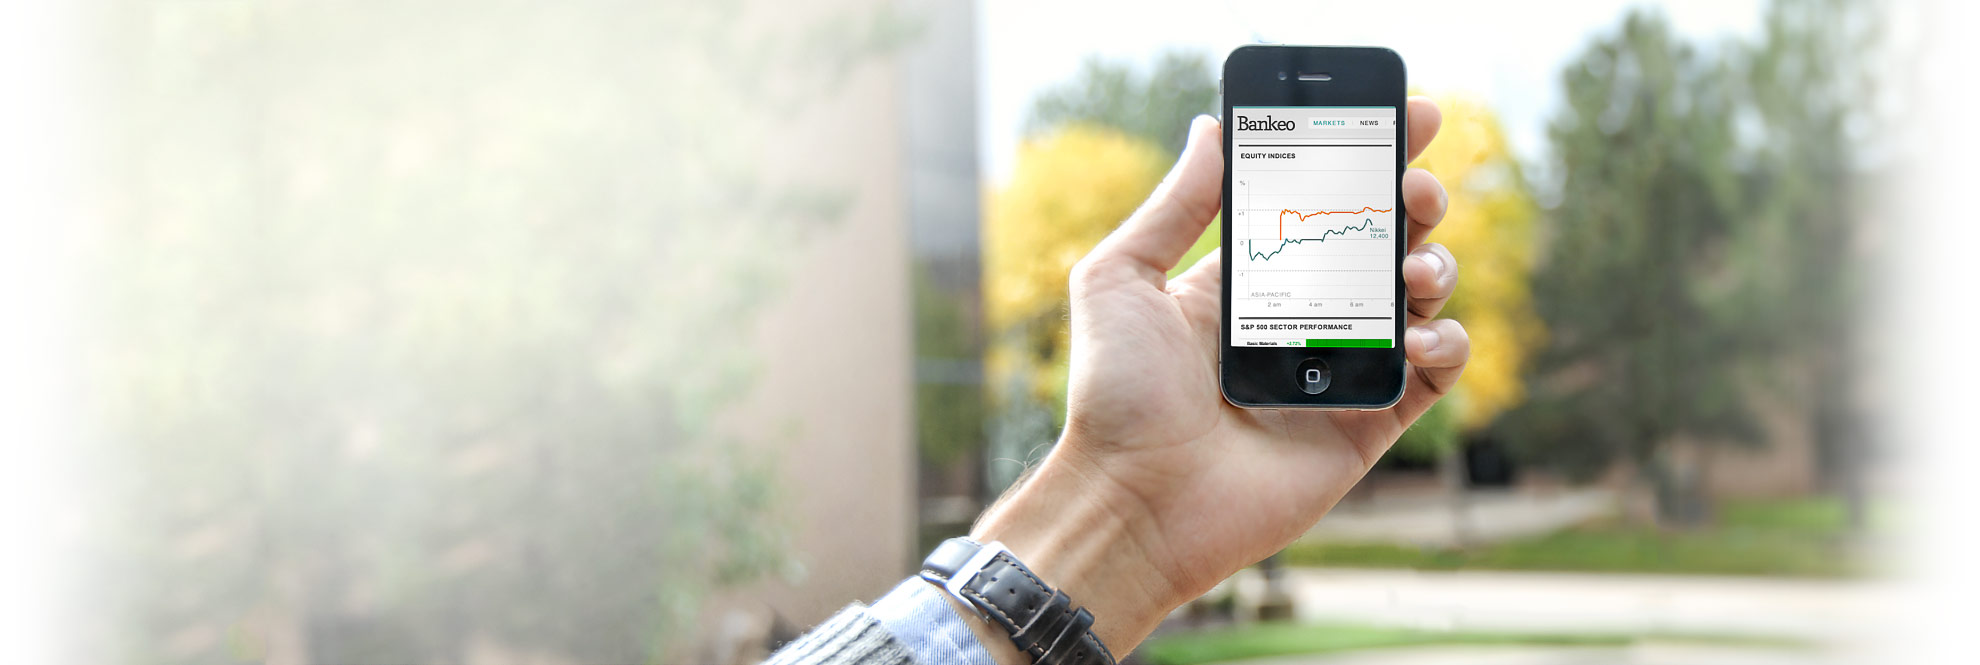
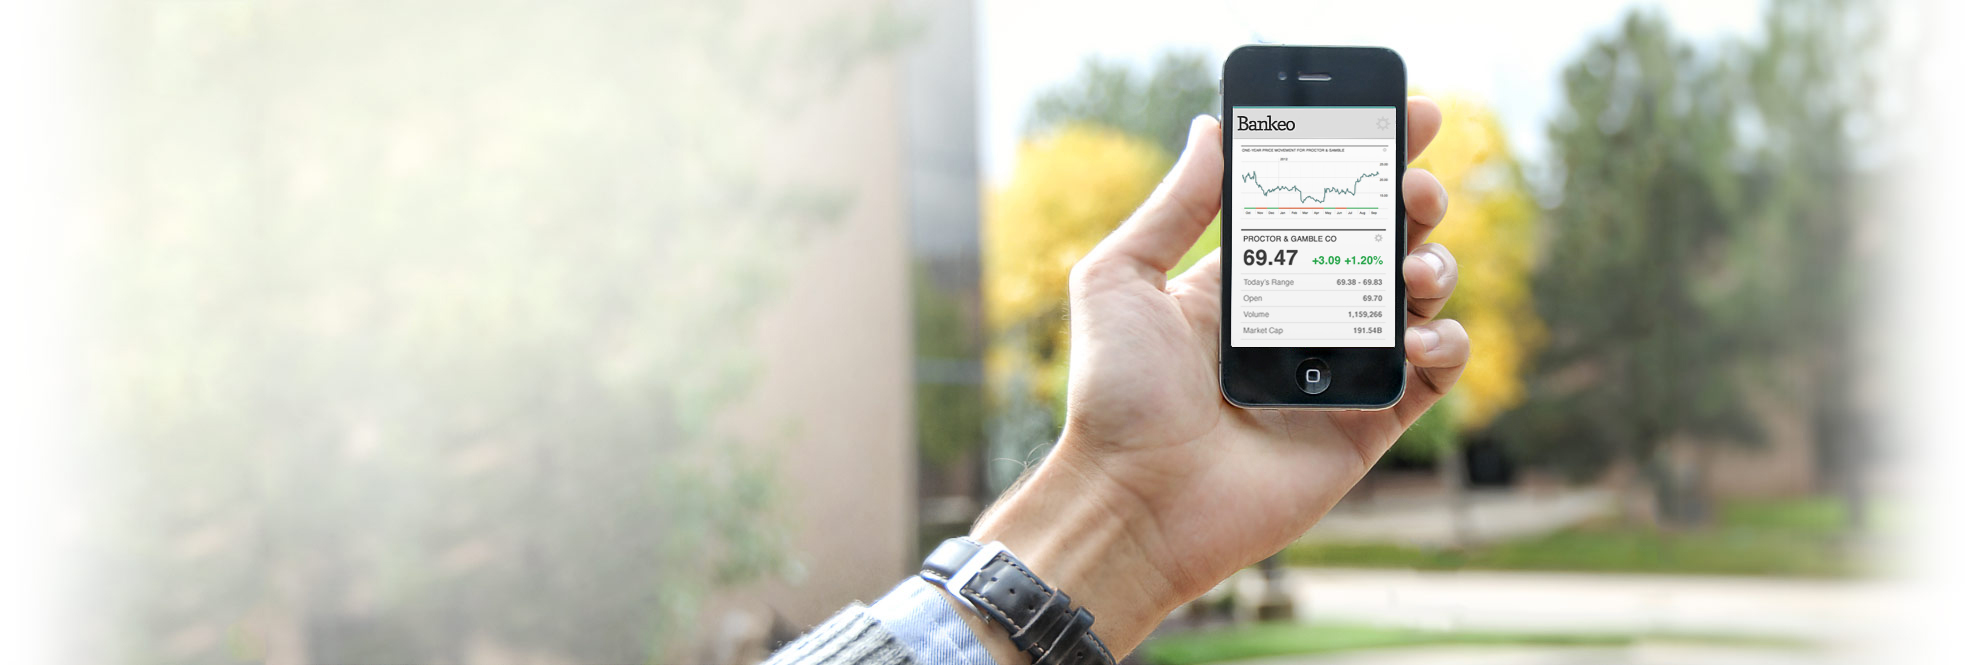
Changed iPhone pic. Adjusted some styles for the developer email form.

Changed region(s): [[0.6162, 0.2707, 0.7086, 0.5414], [0.6162, 0.1805, 0.7086, 0.2707]]

diff --git a/docs/css/F2.Docs.css b/docs/css/F2.Docs.css
@@ -185,7 +185,8 @@ a:hover{color:#005580;text-decoration:underline;}
 .container-fluid:before,.container-fluid:after{display:table;content:"";line-height:0;}
 .container-fluid:after{clear:both;}
 .openf2Header{background-color:#f0f0f0;}
-body .mainContainer{padding:0;margin-top:0;}body .mainContainer .description{background:url("../img/F2TopShadowBorder.png") top no-repeat;position:relative;height:665px;}body .mainContainer .description .mainBGImg{z-index:-1;position:absolute;top:0;left:0;margin:0;list-style:none;width:100%;}body .mainContainer .description .mainBGImg li img{height:665px;width:100%;}
+body .mainContainer{padding:0;margin-top:0;}body .mainContainer .AppRegistrationForm{padding:20px;background:url("../img/F2TopShadowBorder.png") top no-repeat;}
+body .mainContainer .description{background:url("../img/F2TopShadowBorder.png") top no-repeat;position:relative;height:665px;}body .mainContainer .description .mainBGImg{z-index:-1;position:absolute;top:0;left:0;margin:0;list-style:none;width:100%;}body .mainContainer .description .mainBGImg li img{height:665px;width:100%;}
 body .mainContainer .description .ImgIpad{background:url("../img/F2_iPad.jpg") no-repeat center;}
 body .mainContainer .description .ImgIscreens{background:url("../img/F2_iScreens.jpg") no-repeat center;}
 body .mainContainer .description .ImgIphone{background:url("../img/F2_iPhone.jpg") no-repeat center;}
@@ -208,7 +209,7 @@ body .mainContainer .overview .photoControl li a{background:url("../img/dot.png"
 body .mainContainer .overview .photoControl .selected a{background:url("../img/dotSelected.png") no-repeat center;}
 body .mainContainer .overview .captions{list-style:none;text-align:center;padding:10px 0;}body .mainContainer .overview .captions li{display:none;}
 body .mainContainer .overview .captions li.selected{display:inline-block;}
-body .mainContainer .exampleContent{margin-top:40px;}
+body .mainContainer .exampleContent{padding-top:40px;}
 body .mainContainer .exampleCaptions p{padding:0 0 40px 0;color:#6c6c6c;background:url("../img/smallShadowDivider.png") bottom no-repeat;}
 body .mainContainer .exampleControls{position:relative;margin:0;padding:20px 0;text-align:center;}body .mainContainer .exampleControls .arrow{height:25px;width:13px;cursor:pointer;position:absolute;top:15px;}
 body .mainContainer .exampleControls .leftArrow{background:url("../img/LeftArrow.png") center no-repeat;left:0;}

diff --git a/docs/css/F2.Sdk.css b/docs/css/F2.Sdk.css
@@ -185,7 +185,8 @@ a:hover{color:#005580;text-decoration:underline;}
 .container-fluid:before,.container-fluid:after{display:table;content:"";line-height:0;}
 .container-fluid:after{clear:both;}
 .openf2Header{background-color:#f0f0f0;}
-body .mainContainer{padding:0;margin-top:0;}body .mainContainer .description{background:url("../img/F2TopShadowBorder.png") top no-repeat;position:relative;height:665px;}body .mainContainer .description .mainBGImg{z-index:-1;position:absolute;top:0;left:0;margin:0;list-style:none;width:100%;}body .mainContainer .description .mainBGImg li img{height:665px;width:100%;}
+body .mainContainer{padding:0;margin-top:0;}body .mainContainer .AppRegistrationForm{padding:20px;background:url("../img/F2TopShadowBorder.png") top no-repeat;}
+body .mainContainer .description{background:url("../img/F2TopShadowBorder.png") top no-repeat;position:relative;height:665px;}body .mainContainer .description .mainBGImg{z-index:-1;position:absolute;top:0;left:0;margin:0;list-style:none;width:100%;}body .mainContainer .description .mainBGImg li img{height:665px;width:100%;}
 body .mainContainer .description .ImgIpad{background:url("../img/F2_iPad.jpg") no-repeat center;}
 body .mainContainer .description .ImgIscreens{background:url("../img/F2_iScreens.jpg") no-repeat center;}
 body .mainContainer .description .ImgIphone{background:url("../img/F2_iPhone.jpg") no-repeat center;}
@@ -208,7 +209,7 @@ body .mainContainer .overview .photoControl li a{background:url("../img/dot.png"
 body .mainContainer .overview .photoControl .selected a{background:url("../img/dotSelected.png") no-repeat center;}
 body .mainContainer .overview .captions{list-style:none;text-align:center;padding:10px 0;}body .mainContainer .overview .captions li{display:none;}
 body .mainContainer .overview .captions li.selected{display:inline-block;}
-body .mainContainer .exampleContent{margin-top:40px;}
+body .mainContainer .exampleContent{padding-top:40px;}
 body .mainContainer .exampleCaptions p{padding:0 0 40px 0;color:#6c6c6c;background:url("../img/smallShadowDivider.png") bottom no-repeat;}
 body .mainContainer .exampleControls{position:relative;margin:0;padding:20px 0;text-align:center;}body .mainContainer .exampleControls .arrow{height:25px;width:13px;cursor:pointer;position:absolute;top:15px;}
 body .mainContainer .exampleControls .leftArrow{background:url("../img/LeftArrow.png") center no-repeat;left:0;}

diff --git a/docs/css/F2.css b/docs/css/F2.css
@@ -185,7 +185,8 @@ a:hover{color:#005580;text-decoration:underline;}
 .container-fluid:before,.container-fluid:after{display:table;content:"";line-height:0;}
 .container-fluid:after{clear:both;}
 .openf2Header{background-color:#f0f0f0;}
-body .mainContainer{padding:0;margin-top:0;}body .mainContainer .description{background:url("../img/F2TopShadowBorder.png") top no-repeat;position:relative;height:665px;}body .mainContainer .description .mainBGImg{z-index:-1;position:absolute;top:0;left:0;margin:0;list-style:none;width:100%;}body .mainContainer .description .mainBGImg li img{height:665px;width:100%;}
+body .mainContainer{padding:0;margin-top:0;}body .mainContainer .AppRegistrationForm{padding:20px;background:url("../img/F2TopShadowBorder.png") top no-repeat;}
+body .mainContainer .description{background:url("../img/F2TopShadowBorder.png") top no-repeat;position:relative;height:665px;}body .mainContainer .description .mainBGImg{z-index:-1;position:absolute;top:0;left:0;margin:0;list-style:none;width:100%;}body .mainContainer .description .mainBGImg li img{height:665px;width:100%;}
 body .mainContainer .description .ImgIpad{background:url("../img/F2_iPad.jpg") no-repeat center;}
 body .mainContainer .description .ImgIscreens{background:url("../img/F2_iScreens.jpg") no-repeat center;}
 body .mainContainer .description .ImgIphone{background:url("../img/F2_iPhone.jpg") no-repeat center;}
@@ -208,7 +209,7 @@ body .mainContainer .overview .photoControl li a{background:url("../img/dot.png"
 body .mainContainer .overview .photoControl .selected a{background:url("../img/dotSelected.png") no-repeat center;}
 body .mainContainer .overview .captions{list-style:none;text-align:center;padding:10px 0;}body .mainContainer .overview .captions li{display:none;}
 body .mainContainer .overview .captions li.selected{display:inline-block;}
-body .mainContainer .exampleContent{margin-top:40px;}
+body .mainContainer .exampleContent{padding-top:40px;}
 body .mainContainer .exampleCaptions p{padding:0 0 40px 0;color:#6c6c6c;background:url("../img/smallShadowDivider.png") bottom no-repeat;}
 body .mainContainer .exampleControls{position:relative;margin:0;padding:20px 0;text-align:center;}body .mainContainer .exampleControls .arrow{height:25px;width:13px;cursor:pointer;position:absolute;top:15px;}
 body .mainContainer .exampleControls .leftArrow{background:url("../img/LeftArrow.png") center no-repeat;left:0;}

diff --git a/docs/src/template/less/openF2.less b/docs/src/template/less/openF2.less
@@ -5,6 +5,10 @@
 body .mainContainer {
   padding: 0;
   margin-top: 0;
+  .AppRegistrationForm {
+    padding: 20px;
+    background: url(@F2TopBorderFade) top no-repeat;
+  }
   .description {
     background: url(@F2TopBorderFade) top no-repeat;
     position: relative;
@@ -74,7 +78,7 @@ body .mainContainer {
       li.selected { display: inline-block; }
     }
   }
-  .exampleContent{margin-top: 40px;}
+  .exampleContent{padding-top: 40px;}
   .exampleCaptions {
     p {
       padding: 0 0 40px 0; 
